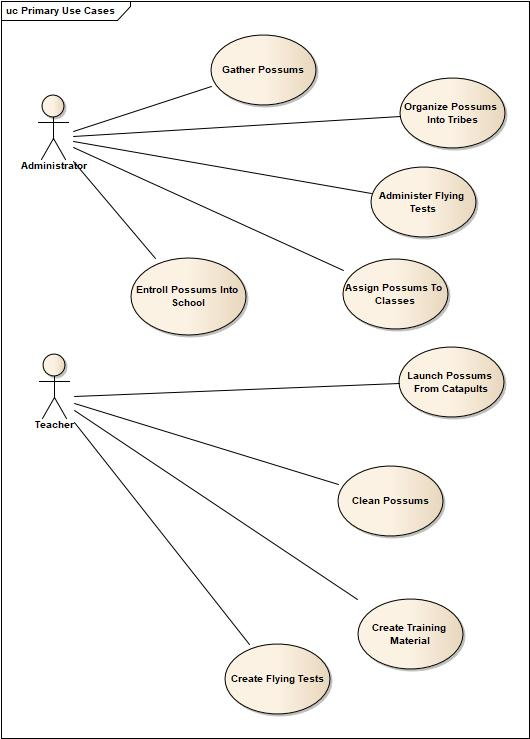
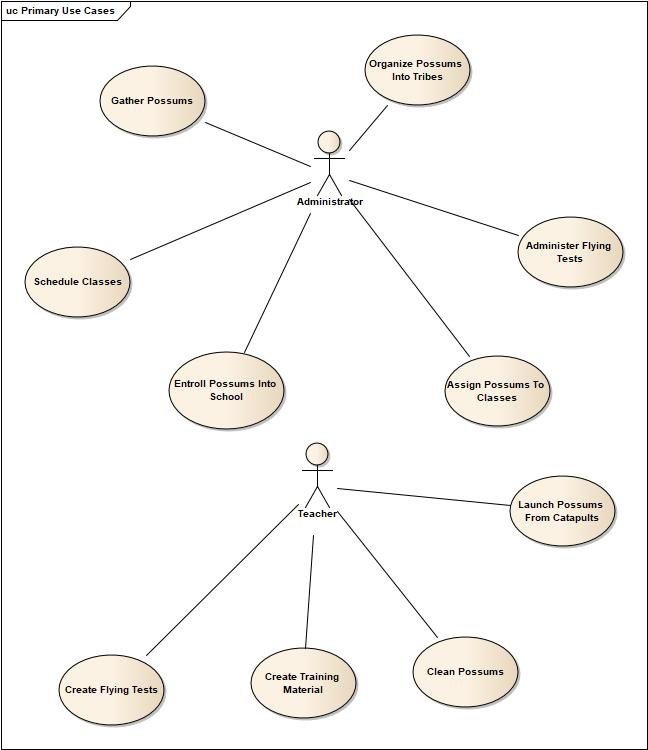
more on chapter 20

diff --git a/manuscript/chapter20.md b/manuscript/chapter20.md
@@ -1,16 +1,16 @@
 # Chapter 20
 
-Congratulations! You've just received a large grant from a well-known charity to write software to support oppossum flying schools. Flying squirrels get all the good press, and the radical fringe group "Opossums United Curicculum Help (OUCH!)" wants somebody to develop a computer program to help those brave folk around the world who are teaching opossums to fly. They are too often forgotten. Have you ever seen a fundraiser for oppossum trainers? Ever see a flying opossum? See?
+Congratulations! You've just received a large grant from a well-known charity to write software to support opossum flying schools. Flying squirrels get all the good press, and the radical fringe group "Opossums United Curriculum Help (OUCH!)" wants somebody to develop a computer program to help those brave folk around the world who are teaching opossums to fly. They are too often forgotten. Have you ever seen a fundraiser for opossum trainers? Ever see a flying opossum? See?
 
-Along with the grant came a first-class ticket to Hooterville, Inidana, home of Peter Principal's Possum Pilot School, school for possums wanting to break free of the usual midnight snack around the cat bowl and launch themselves into the void.
+Along with the grant came a first-class ticket to Hooterville, Indiana, home of Peter Principal's Possum Pilot School, school for possums wanting to break free of the usual midnight snack around the cat bowl and launch themselves into the void.
 
 And you have a team of three! Woot! It's about time you got some help around here.
 
 As you walk through the gates and onto hallowed ground, a plaque welcomes you, reminding you of the terrible price of failure.
 
-![](images/opossum-mypossum.png)
+![Remembering the fallen](images/opossum-mypossum.png)
 
-When you meet Peter, owner of the school, the first thing you ask him is if he and your team can just work side-by-side for a few weeks. You'll help him with the possum pilot preparations, he can help you with the coding. This would create an instant feedback loop, eliminate any kind of analysis or backlog, and cut the crap down to the minimum-needed to get this software written. Also I would get to skip writing the rest of this chapter.
+When you meet Peter, owner of the school, the first thing you ask him is if he and your team can just work side-by-side for a few weeks. You'll help him with the possum pilot preparations, he can help you with the coding. This would create an instant feedback loop, eliminate any kind of analysis or backlog, and cut the crap down to the minimum-needed to get this software written. Also I would get to skip writing the rest of this chapter and head out for beers.
 
 This does not work for him. The demands of opossum organizations are oppressive and obstinate, such that we'll have to set up some kind of schedule. In addition, there are other possum schools that need to use the software. Peter isn't a customer, rather, he's not *all* of our customers. He's just a guy to help us understand the needs of possum people.
 
@@ -37,7 +37,7 @@ Pete doesn't know it, but Pete is training us to think like Pete. That's the rea
 
 Then you all go back to the hotel. Time for some grooming!
 
-The first thing you do is compare notes, agree on what you understand, then run the final version through EasyAM. The meeting with Pete was step 1 of grooming, "introducing new information for the team to consider". 
+The first thing you do is compare notes, agree on what you understand, then run the final version through EasyAM. The meeting with Pete was step 1 of grooming, **"introducing new information for the team to consider"**. 
 
 ![](images/chapter20-initialnotes.png)
 
@@ -47,11 +47,13 @@ Our agreed-upon notes covers all of the top and most of the second section of th
 
 ![](images/chapter20-initialdm.jpg)
 
-Step 2, "synchronizing the analysis model", was handled just by everybody taking their notes and agreeing on one version for EasyAM. If you had already had stuff written down, you would have to have everybody agree with one another, then agree with your previous notes. Otherwise something's gotta change somewhere.
+Step 2, **"synchronizing the analysis model"**, was handled just by everybody taking their notes and agreeing on one version for EasyAM. If you had already had stuff written down, you would have to have everybody agree with one another, then agree with your previous notes. Otherwise something's gotta change somewhere.
 
 Step 3 is cleaning up the backlog to make it manageable. There is no backlog! So let's throw a few things on there tomorrow for Pete to look at.
 
-Here's how to intially order a backlog with no Product Owner input: look at all the domain objects. Sort them by how important they've been to the conversation so far, like so:
+## Analysis Affinity Mapping
+
+Here's how to initially order a backlog with no Product Owner input: look at all the domain objects. Sort them by how important they've been to the conversation so far, like so:
 
 * Number of connections
 * Number of arrows leaving 
@@ -130,26 +132,79 @@ If you've taken any sort of backlogs course in the past, you're probably yelling
 
 We want a test. Analysis happens naturally. In any given week a good team is probably going through 50 grooming cycles, most of them informal. In a lot of ways, it doesn't matter what we put down here as much as it matters that we have something to continue talking about with the customer. We have a test that could pass or fail.
 
-Since we haven't quite spent an hour yet at the hotel, and since we can use what we have in the model to make more tests, we sketch out some screens (System Realized Structure) to show to Pete tomorrow and get his feedback.
+Since we haven't quite spent an hour yet at the hotel, and since we can use what we have in the model to make more tests, we sketch out a couple of screen wireframes (System Abstract Structure) to show to Pete tomorrow and get his feedback.
 
-Then we go back and add our new items to EasyAM, printing out the new diagrams.
+Then we go back and add our new items to EasyAM, printing out the new diagrams. As we update the diagram, we realize we also forgot "Classroom", which is where a Teacher teaches a course during a training period to a bunch of possums, which we toss in there. And adding that, we realize we also have a "Schedule classes", which involves assigning teachers and courses to classrooms during a training period
 
 ![](images/chapter20-ucm2.jpg)
 
 ![](images/chapter20-dm2.jpg)
 
-## Grooming Examples With EasyAM
+We also add in the mapping to the domain model we got while walking the model. The diagram is now out of "sync" with our affinity map, but it's not important. Here's our initial notes from the first meeting and our first formal grooming.
 
-Pointing
-Splitting
-Bug dump
-Feature request
+![](images/chapter20-initialnotes2.png)
 
+So we started in on #3, **"clean up the backlog to make it manageable"**, realizing immediately that we needed some kind of initial ordered backlog. A null backlog is not manageable. Pulling a rabbit out of our hat, we walked the model to do an **Analysis Affinity Mapping**, which created more items and gave us a starting backlog.
 
-1. You are not allowed to have any important conversations unless it's to validate items already in the analysis (shared mental) model
-2. You are not allowed to add things to the model unless it answers a relevant question or fixes a failing test at the current level 
-3. You stop adding things to the model as soon as there is agreement that enough has been described to create a failing important test at some lower level
+We moved on to #4, **"Verify that we're ready to create executable tests for upcoming pieces of work"**. Tests always involve taking some structure and bouncing it off a combination of behavior and supplementals. We're pushing as hard as we can not to do any paperwork at all, so we're jumping right down to System Abstract. 
 
-The ordering of tests by importance is called the backlog queue
+My heart tells me to move immediately System Realized, actually writing some code, but my head tells me that old Pete would freak out if he only spoke to us for an hour and we showed up the next day giving him code. He's a meeting kinda guy. So our strategy will be to only go as far down as System Abstract for a few meetings, see if we can get into more of a continuous cycle, and then only do System Realized test, that is, running code.  We are using the work to throttle the delivery speed so that we can work through bugs in how we work together, Meta Behavior Realized. Said a different way, we walked in with a lot of Meta Abstract Behaviors we read about in this book. We're applying them a little at a time to test the waters and evolve a Meta Behavior Realized that works for our particular situation.
 
+Five things to note: 
+
+1. Once we had absorbed the new information, synchronized the model, and made sure the backlog was manageable, we're immediately asking ourselves what kinds of tests we can make at a lower level. (The lowest level possible, actually. The more levels we can skip, the faster this goes.) Tests mean behaviors and supplementals coming together to drive out structure, which is either then approved or rejected. To get started we sketched out some wireframes that matched what we know so far. That's our derived structure, the wireframes. Now we just need approval that the test passed okay. I would not expect to get it.
+2. We can run through analysis tests a heckuva lot faster than we could code, no matter how fast we could code. In fact, every time you suggest some structure that's driven out by the rest of the model and the other people in the room either disagree or point out that you have to add to or change the model, you've created and failed a test. That could happen dozens of times in an hour.
+3. When we create a test and it passes, that means we either need to move down some levels and do it again -- or we're done. That goal has been met.
+4. A good team should be able to deliver solutions faster than the customer can absorb them. (In fact, this is one of the key indicators you are working on a good team.) So at the beginning of a project, its primary concern should be "how fast can this relationship move", not "when do I get to the code-writing part?"
+5. The model knows more than we do. By using a written model, as we go through the steps of grooming, we cover all the things we've learned before to see if they are consistent with one another. This results in a much deeper conversation than simply pointing at a behavior and asking "Who remembers what this is?" About 30% of the model just "fell out" while we were making sense of the rest of it. That drops off over time, but still remains significant. We get more out than we put in, even after just an hour's work.
+
+## Possum Piloting School Day 2
+
+Day 2 comes and the team is pumped up. We print out our cards, gather up our wireframes, and head off to the Possum Piloting place. What Pete will see will be the team showing him some User Interface ideas using wireframes. He'll also see them bring some kind of card game they want to play while working. What the team will be doing is seeing how fast they can get Pete working with both the analysis cards and wireframes at the same time -- continuous grooming.
+
+We have created several tests in the Analysis Model that we want to run. The first thing we'll ask is "Are these the types of things you would need in an app?" asking directly about the behavior bucket. Direct questions rarely get anything useful, but it'll start the ball rolling, get Pete used to working with the cards. Remember the magic act.
+
+Then we'll list the supplementals, telling him it's important values we heard while we were talking yesterday. That's test #2. Then we'll walk through the two wireframes. That's test #3 and #4.
+
+None of these tests should pass, unless we had the luck of the Irish. Instead, because we have failing tests, the conversation will continue, giving us more good analysis items to do another grooming session. As we add and change items, we'll modify physical cards, moving them around on the table as we point and chat about the wireframes. 
+
+Day 2 went well. Pete liked the cards. He especially liked the wireframes and being the center of attention, but the cards seemed to make sense to him too. We talked about rapid prototyping, asked if we could come back tomorrow with wireframes for all the behaviors. He agreed. We also caught a new behavior, "Teach class". After all, if you're not teaching classes, what's the purpose of trying to teach possums to fly? Pete also agreed that we could show him some actual programming around the first item, "Assign Possums to Classes"
+
+Back at the hotel, we started grooming. Step 1 is putting the new information in. While we were doing wireframes for the top two behaviors, we were talking structure, so we got several behavior and supplemental items captured. Remember: you always get stuff in a different bucket from the one you're talking about. Playing with wireframes actually got us walking through the flow of each behavior. (Flowcharts or Activity Diagrams is the way we capture the details of behavior items). We didn't go into exhaustive detail, but we got a good idea of the various scenarios (paths) for each of the two behaviors we wireframed.
+
+Instead of getting into a bunch of diagramming, we just captured what we know using the EasyAM keyword "SCENARIO" for those behaviors. Step 2 is "synchronizing the model". We did that by simply taking our notes from day 2, coming to agreement on what we saw and heard, then looking at our notes from Day 1 to see if anything needs changing. (It didn't.)
+
+Here are our day 2 notes:
+
+1
+
+Step 3 is cleaning up the backlog to make it manageable. Do we go back and do that Analysis Affinity Mapping thing to get a new prioritized list?
+
+Why? What would be the purpose of that? We're always working towards tests. Our tests tomorrow will be showing Pete some programming for that top item, then going through wireframes for all of the behaviors. What would affinity mapping do to help us drive towards those tests? Nothing. So we don't do it.
+
+Step 4 is verifying that we're ready to create executable tests for upcoming pieces of work. 
+
+Ok. Do we know enough to wireframe the rest of the behaviors? Sure. We don't know a bunch, but who cares? The entire point here is to make failing tests over and over again as quickly as possible while he hone in on a final solution. We know enough to make a test that can fail. We're good to go. Do we know enough to write some code for that first one? Sure. It'll be wrong, but not as wrong as it was yesterday.
+
+Now we have several hours of kicking around some wireframes to get things going tomorrow. Remember, we're not writing specs. We're writing failing tests. We're just writing the best failing tests we can given what we currently know.
+
+Finally, before we quit for the day, we start chatting about the Meta genre again. The immediate work is always something tangible, like a wireframe. As we do the immediate work, we look out over the medium-term, updating the Analysis Model. But at the same time, the critical factor to all of this is the Meta genre: how we all work together to make good things happen. 
+
+What are our Meta goals for tomorrow? Let's see if we can get Pete to start joining us for grooming sessions, maybe set aside 3 hours every morning for working together. If we can get that, that'll kick things into high gear. Let's also talk about incremental delivery, where when we have really tough things, we do the blank screen first, then dummy data, and so forth. We can go ahead and add the Supplementals for that. Yay! More stuff to fail -- and meta stuff failing is always the best.
+
+We update our Day 2 notes. The bottom half now looks like this.
+
+![](images/chapter20-day2amin-2.jpg)
+
+But wait! That's a System Abstract Supplemental. I thought we were working with Master Models?
+
+It doesn't matter. The real Analysis Model exists in our heads. Just after two days it's got stuff all over the place, as it should. We're not filling out forms, we're driving towards tests. We need this System Abstract Supplemental to talk to Pete about testing tomorrow, so in it goes.
+
+When you're developing single/small team solutions, there's no right or wrong written model. We could have stuck it in the Master Supplemental Model, even though technically it doesn't go there. Doesn't matter as long as we can drive towards tests. But we might as well stick it where we know it goes so that we don't have to mess with it any more.
+
+Along those lines, we don't have the full title details for all of the supplementals, just that system one. Shouldn't we go back and put in the WHENEVER and ITHASTOBETHAT for the others?
+
+No, we should not. Doesn't help us with the tests for tomorrow. It's wasted work. Same goes for some kind of deep sea fishing expedition we might do trying to come up with attributes for our entities in our master domain model.
+
+When you start putting things in the model without associated tests in mind, you're always wasting your time. This is how you get into Analysis Paralysis. Those tests can either be Meta tests (Can we set things up with Pete so we can run faster?) or tests at a lower level (If we show him these wireframes, will Pete agree that we've captured all of the important information so far? We've been twerking around with Business Abstract stuff in order to create some yummy System Abstract tests)
 

diff --git a/manuscript/chapter17.md b/manuscript/chapter17.md
@@ -80,6 +80,8 @@ Turns out, "make something people want" along with regular accountability and te
 
 ## Test-Driven Analysis (TDA)
 
+![](images/tda2.jpg)
+
 But I have been falling down on my job! We've been several dozen pages and you don't have any new complicated-sounding terms or buzzwords to put on your status reports. So here's one: Test-Driven Analysis.
 
 TDA says that all analysis work, initial customer conversations, screen discussions during app development, user experience and bug discussions -- all of it -- is geared to either creating or passing a test. We just need to be explicit about what those tests are.

diff --git a/manuscript/chapter21.md b/manuscript/chapter21.md
@@ -1,4 +1,12 @@
 # Chapter 21
 
-## Legacy Migration
+## Grooming on-the-run
+
+
+1. You are not allowed to have any important conversations unless it's to validate items already in the analysis (shared mental) model
+2. You are not allowed to add things to the model unless it answers a relevant question or fixes a failing test at the current level 
+3. You stop adding things to the model as soon as there is agreement that enough has been described to create a failing important test at some lower level
+
+The ordering of tests by importance is called the backlog queue
+
 

diff --git a/manuscript/chapter19.md b/manuscript/chapter19.md
@@ -1,6 +1,6 @@
 # Chapter 19
 
-![](images/tda.jpg)
+![](images/tda2.jpg)
 
 Just to get everybody caught up, a backlog is a series of partially-constructed tests describing Behavior To-Be by combining Behavior To-Be and various Supplementals To-Be. Tasks are to-do items. 
 
